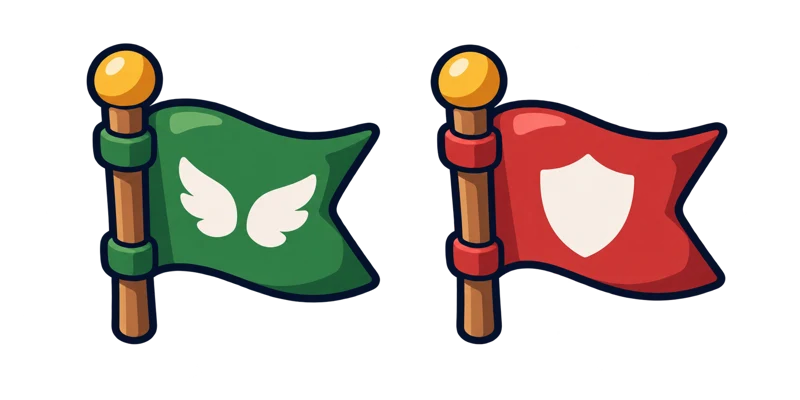
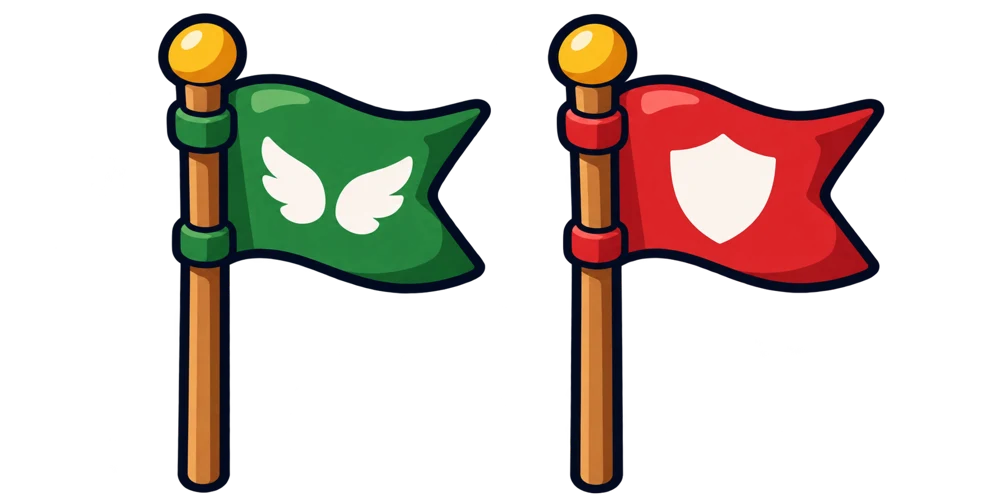
승리 깃발 막대를 연장해 원형 바닥에 정렬

diff --git a/public/quoridor.html b/public/quoridor.html
@@ -1,5 +1,5 @@
 <!doctype html>
-<html lang="ko"><head><meta charset="utf-8"><meta name="viewport" content="width=device-width,initial-scale=1"><title>쿼리도 · 진격의 거인</title><link rel="stylesheet" href="quoridor.css?v=20261023-ai-individual"></head>
+<html lang="ko"><head><meta charset="utf-8"><meta name="viewport" content="width=device-width,initial-scale=1"><title>쿼리도 · 진격의 거인</title><link rel="stylesheet" href="quoridor.css?v=20261023-flag-ground"></head>
 <body><header><a href="/">← 게임 선택</a><h1>쿼리도 <small>ver.진격의 거인</small></h1><button id="mute" class="quiet" aria-label="소리 켜기/끄기">🔊</button><span id="connection" role="status">연결 중…</span></header>
 <p id="error" role="alert"></p>
 <!-- 입장·대기실: 팀 슈팅·고스트헌터와 같은 모양 (Claude) -->
@@ -18,4 +18,4 @@
 </ul></div></section></div></section>
 <main id="game" class="hidden"><div class="play-column"><div id="scores" class="scores"></div><div class="turn-line"><strong id="turn" role="status"></strong><span id="turnTimer" class="turn-timer hidden" aria-live="off"></span><span id="actionNote"></span></div><div class="board-wrap"><div id="pauseCover" class="q-pause hidden" role="status"><b>⏸ 일시정지</b><span>선생님이 잠깐 멈췄어요</span></div><canvas id="board" width="1254" height="1254" tabindex="0" aria-label="9×9 쿼리도 보드. 칸을 눌러 이동하고 틈을 따라 드래그해서 벽 미리보기. 방향키로도 이동할 수 있습니다."></canvas></div></div><aside class="panel controls"><h2 id="status"></h2><p id="guide"></p><div id="previewControls" class="hidden"><p id="wallMessage" role="status"></p><button id="confirmWall">벽 세우기</button><button id="rotateWall" class="quiet">방향 바꾸기</button><button id="cancelWall" class="quiet">취소</button></div><details><summary>조작 방법</summary><p>말 이동: 빛나는 칸 누르기<br>벽 설치: 틈을 따라 짧게 드래그 → 확정<br>키보드: 보드에 초점을 두고 방향키</p><p>벽은 상대의 길을 완전히 막을 수 없어요. 뛰어넘기는 벽을 넘는 기술이 아니라 상대 말을 넘는 기본 이동입니다.</p></details><button id="pause" class="quiet hidden">⏸ 일시정지</button><button id="reset" class="quiet">대기실로 돌아가기</button></aside></main>
 <dialog id="outcome" aria-labelledby="outcomeTitle"><div id="confetti" class="q-confetti" aria-hidden="true"></div><p id="outcomeEyebrow" class="q-result-label"></p><div id="outcomeArt" class="q-win"></div><h2 id="outcomeTitle"></h2><p id="outcomeMotto" class="q-result-motto"></p><p id="outcomeText"></p><button id="again">대기실로 돌아가기</button><p id="outcomeError" role="alert"></p></dialog>
-<script src="/socket.io/socket.io.js"></script><script src="quoridor-engine.js?v=20261023-ai-individual"></script><script src="quoridor-client.js?v=20261023-ai-individual"></script></body></html>
+<script src="/socket.io/socket.io.js"></script><script src="quoridor-engine.js?v=20261023-flag-ground"></script><script src="quoridor-client.js?v=20261023-flag-ground"></script></body></html>

diff --git a/public/quoridor.css b/public/quoridor.css
@@ -86,8 +86,8 @@ body.student #start{display:none}
 .q-victory-stage{position:relative;isolation:isolate;height:200px;display:flex;align-items:flex-end;justify-content:center;margin:6px 0 8px}
 .q-victory-stage:before{content:"";position:absolute;inset:18px 15px 0;border-radius:50%;background:radial-gradient(ellipse,#fff1ae38,transparent 65%);z-index:-1}
 .q-victory-stage:after{content:"";position:absolute;width:150px;height:20px;bottom:-3px;border:2px solid #e4d9a75c;border-radius:50%;background:#e5d6a91c;z-index:-1}
-.q-victory-banner{position:absolute;left:calc(50% - 125px);top:0;width:130px;height:165px;background-image:url('assets/quoridor/victory-banners.webp');background-size:260px 165px;background-repeat:no-repeat;filter:drop-shadow(0 5px 2px #0004);transform:rotate(-7deg)}
-.q-victory-banner.marley{background-position:right top}
+.q-victory-banner{position:absolute;left:calc(50% - 130px);bottom:3px;width:200px;height:200px;background-image:url('assets/quoridor/victory-banners.webp?v=long-pole');background-size:400px 200px;background-repeat:no-repeat;filter:drop-shadow(0 3px 2px #0004)}
+.q-victory-banner.marley{left:calc(50% - 88px);background-position:right top}
 .q-victory-pawn{position:relative;margin-left:60px;filter:drop-shadow(0 6px 3px #0005)}
 #outcome h2{position:relative;margin:10px 0 4px;font-size:clamp(25px,7vw,34px);color:#fff2c0;text-shadow:0 3px #071723}
 #outcome .q-result-motto{margin:4px 0 12px;color:var(--team);font-size:18px;font-weight:800}
@@ -97,7 +97,7 @@ body.student #start{display:none}
 @keyframes q-spark{15%{opacity:.9}to{opacity:0;transform:translateY(-35px) scale(.3)}}
 @keyframes q-reveal{from{opacity:0;transform:translateY(18px) scale(.94)}to{opacity:1;transform:none}}
 @media(prefers-reduced-motion:no-preference){#outcome[open]{animation:q-reveal .35s ease-out}.q-victory-pawn{animation:q-reveal .5s cubic-bezier(.2,.8,.2,1)}}
-@media(max-height:550px){#outcome{padding:14px 22px}.q-victory-stage{height:135px;margin:0}.q-victory-pawn{zoom:.75}.q-victory-banner{width:100px;height:127px;background-size:200px 127px;left:calc(50% - 100px)}#outcomeText{margin-bottom:10px}#outcome h2{margin-top:4px}}
+@media(max-height:550px){#outcome{padding:14px 22px}.q-victory-stage{height:135px;margin:0}.q-victory-pawn{zoom:.75}.q-victory-banner{width:140px;height:140px;background-size:280px 140px;left:calc(50% - 110px);bottom:5px}.q-victory-banner.marley{left:calc(50% - 80px)}#outcomeText{margin-bottom:10px}#outcome h2{margin-top:4px}}
 @media(prefers-reduced-motion:reduce){.turn-timer.urgent{animation:none}}
 /* 일시정지(선생님만) */
 .board-wrap{position:relative}.q-pause{position:absolute;inset:0;z-index:3;border-radius:14px;background:#07101ccc;display:flex;flex-direction:column;align-items:center;justify-content:center;gap:6px;text-align:center}

diff --git a/WORKLOG.md b/WORKLOG.md
@@ -376,3 +376,7 @@ Claude와 Codex가 번갈아 작업합니다. 작업을 시작할 때 이 파일
 - 사용자 지적대로 방 공통 난이도를 제거하고 각 AI 칸 아래 개별 쉬움/어려움 선택 추가. 새 AI는 쉬움, 선생님만 대기실에서 대상 AI id로 설정. 두 AI를 서로 다른 난이도로 대결 가능.
 - 난이도는 플레이어 개체에 저장하고 시작 시 game.players로 복사, 해당 차례 AI 설정으로 실행. 진영 교환·리셋·재접속 유지. 사람/없는 대상/잘못된 값·학생 변경·경기 중 변경 거부. 문서/캐시 갱신.
 - npm test 전체 통과(두 AI 독립 설정·진영 교환·게임 복사·리셋 보존·권한 검사 포함). Chromium 실제 두 AI의 선택/복구/교환/양쪽 실제 차례 및 폰320/390·가로·PC 배치 확인, 문법/diff 검사 통과.
+
+## 2026-10-23 · Codex (승리 깃발 막대 바닥 정렬)
+- 사용자 요청으로 양 진영 깃발의 나무 막대를 아래로 길게 연장한 투명 그림으로 교체. 만화풍/진영 문양 유지, 녹색·빨강 각각 위치를 보정해 막대 끝이 캐릭터 발밑 원형 바닥에 닿게 배치. 가로 화면 크기도 함께 보정, 캐시 갱신.
+- Chromium 실제 소켓의 승리 상태로 양 진영·재대전·감소된 동작 및 폰320/390·가로·PC 배치 확인. 전체 npm test 및 diff 검사 통과. 규칙 변경 없음.

diff --git a/public/assets/quoridor/README.md b/public/assets/quoridor/README.md
@@ -5,3 +5,5 @@
 - `thumbnail.webp`: 첫 화면용 축소 배경. 게임 실행 그림합계 약650KB.
 
 - `victory-banners.webp`: 승리창용 만화풍 녹색 날개/붉은 방패 깃발 2종 시트(약28KB). 사실적 천/금속 시안은 사용자 요청으로 사용하지 않음. 기존 말과 맞춰 굵은 윤곽선·단순 명암으로 새로 생성.
+
+- 승리 깃발 막대는 바닥까지 닿도록 연장한 버전으로 갱신(약37KB). CSS는 각 진영의 막대 위치 차이를 보정하고 원형 무대 바닥에 끝을 정렬함.
